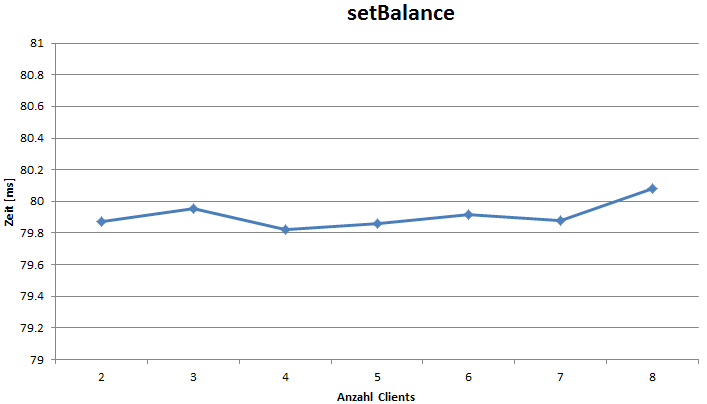
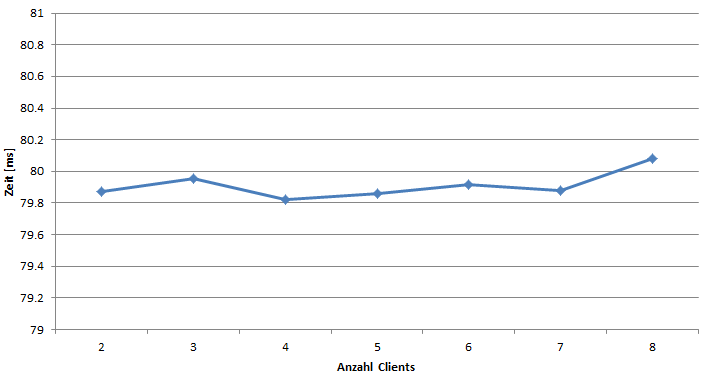
scaling images in the total documentation

diff --git a/doc/project-documentation/MessErgebnisse.tex b/doc/project-documentation/MessErgebnisse.tex
@@ -93,7 +93,7 @@ Pure Operation Time&24595.381&26286.969&30073.691\\
 Diese Zahlen sind Durch\-schnitt\-swer\-te von drei Messungen. Die genauen Mess\-daten können im Anhang gefunden werden. Die folgende Grafik zeigt den Verlauf des Zeit\-auf\-wandes mit einer steigenden Anzahl Clients von zwei bis acht Clients:
 \begin{figure}[H]
 \begin{center}
-\includegraphics[scale=0.6]{images_MessErgebnisse/getBalance_RMI.png}
+\includegraphics[scale=0.55]{images_MessErgebnisse/getBalance_RMI.png}
 \caption{\texttt{getBalance()}-Zeitaufwand, System ohne Cache(nur lesende Zugriffe)}
 \end{center}
 \end{figure}
@@ -132,7 +132,7 @@ Diese Zahlen sind wiederum Durch\-schnitts\-wer\-te.  In der folgenden Grafik we
 
 \begin{figure}[H]
 \begin{center}
-\includegraphics[scale=0.6]{images_MessErgebnisse/getBalance_03ms.png}
+\includegraphics[scale=0.7]{images_MessErgebnisse/getBalance_03ms.png}
 \end{center}
 \caption{\texttt{getBalance()}-Zeitaufwand, System mit Cache(nur lesende Zugriffe)}
 \end{figure}
@@ -222,7 +222,7 @@ Die Ergebnisse der \texttt{setBalance()}-Aurufe werden in dieser Abbildung grafi
 
 \begin{figure}[H]
 \begin{center}
-\includegraphics[scale=0.6]{images_MessErgebnisse/incrementAndReadRMI.png}
+\includegraphics[scale=0.7]{images_MessErgebnisse/incrementAndReadRMI.png}
 \end{center}
 \caption{\texttt{setBalance()}-Zeitaufwand, System ohne Cache(lesende/schreibende Zugriffe)}
 \end{figure}
@@ -262,7 +262,7 @@ Pure Operation Time&79990.542&80081.593&80231.319\\
 In der folgenden Grafik ist der Verlauf der Messwerte der \texttt{setBalance()}-Aufrufe des schreibenden Clients zu sehen:
 \begin{figure}[H]
 \begin{center}
-\includegraphics[scale=0.6]{images_MessErgebnisse/incrementAndReadCache.png}
+\includegraphics[scale=0.55]{images_MessErgebnisse/incrementAndReadCache.png}
 \end{center}
 \caption{\texttt{setBalance()}-Zeitaufwand, System mit Cache(lesende/schreibende Zugriffe)}
 \end{figure}
@@ -336,7 +336,7 @@ Pure Operation Time&79990.542&80081.593&80231.319\\
 Die nächste Grafik zeigt die Messdaten der \texttt{setBalance()}-Methode:
 \begin{figure}[H]
 \begin{center}
-\includegraphics[scale=0.6]{images_MessErgebnisse/incrementRMISetBalance.png}
+\includegraphics[scale=0.7]{images_MessErgebnisse/incrementRMISetBalance.png}
 \end{center}
 \caption{\texttt{setBalance()}-Zeitaufwand, System ohne Cache(nur schreibende Zugriffe)}
 \end{figure}
@@ -349,7 +349,7 @@ Folgende Grafik stellt die durchschnittliche Anzahl Konflikte dar:
 
 \begin{figure}[H]
 \begin{center}
-\includegraphics[scale=0.6]{images_MessErgebnisse/incrementRMIKonfliktzahl.png}
+\includegraphics[scale=0.7]{images_MessErgebnisse/incrementRMIKonfliktzahl.png}
 \end{center}
 \caption{Anzahl Konflikte, System ohne Cache(nur schreibende Zugriffe)}
 \end{figure}
@@ -360,7 +360,7 @@ Schlussendlich die wohl spannendste Grafik. Die "'Pure Operation Time"' ist die 
 
 \begin{figure}[H]
 \begin{center}
-\includegraphics[scale=0.6]{images_MessErgebnisse/incrementRMIPureOperationTime.png}
+\includegraphics[scale=0.7]{images_MessErgebnisse/incrementRMIPureOperationTime.png}
 \end{center}
 \caption{Pure Operation Time System ohne Cache(nur schreibende Zugriffe)}
 \end{figure}
@@ -407,7 +407,7 @@ Pure Operation Time&624422.5&678712.1&859593.5\\
 Die folgende Grafik zeigt die Entwicklung der Messwerte der \texttt{set\-Balance()}-Aufrufe:
 \begin{figure}[H]
 \begin{center}
-\includegraphics[scale=0.6]{images_MessErgebnisse/incrementCacheSetBalance.png}
+\includegraphics[scale=0.7]{images_MessErgebnisse/incrementCacheSetBalance.png}
 \end{center}
 \caption{\texttt{setBalance()}-Zeitaufwand, System mit Cache(nur schreibende Zugriffe)}
 \end{figure}
@@ -417,7 +417,7 @@ Zu erwarten war eine zeitliche Erhöhung bei einer steigenden Anzahl Clients. Da
 In der nächsten Grafik wird die durchschnittliche Anzahl Konflikte pro Client gezeigt:
 \begin{figure}[H]
 \begin{center}
-\includegraphics[scale=0.6]{images_MessErgebnisse/incrementCacheKonfliktzahl.png}
+\includegraphics[scale=0.7]{images_MessErgebnisse/incrementCacheKonfliktzahl.png}
 \end{center}
 \caption{Anzahl Konflikte, System mit Cache(nur schreibende Zugriffe)}
 \end{figure}
@@ -431,7 +431,7 @@ Interessant ist die Tatsache, dass die Zeiten der \texttt{setBalance()}-Aufrufe 
 Die nächste Grafik beschäftigt sich mit der reinen Durchführungszeit:
 \begin{figure}[H]
 \begin{center}
-\includegraphics[scale=0.6]{images_MessErgebnisse/incrementCachePureOperationTime.png}
+\includegraphics[scale=0.8]{images_MessErgebnisse/incrementCachePureOperationTime.png}
 \end{center}
 \caption{Pure Operation Time, System ohne Cache(nur schreibende Zugriffe)}
 \end{figure}

diff --git a/doc/project-documentation/testFramework.tex b/doc/project-documentation/testFramework.tex
@@ -48,7 +48,7 @@ Die Kommunikation des Frameworkservers mit den Frameworkclients ist in folgendem
 
 \begin{figure}[H]
 \begin{center}
-\includegraphics[scale=0.6]{image_testFramework/TestFWInit.png}
+\includegraphics[scale=0.7]{image_testFramework/TestFWInit.png}
 \end{center}
 \caption{Testframework Init}
 \end{figure}
@@ -192,7 +192,7 @@ Nach Beendigung eines Testlaufs, muss der Server mehrere Arbeiten erledigen. Nac
 
 \begin{figure}[H]
 \begin{center}
-\includegraphics[scale=0.6]{image_testFramework/BeendeTestlauf.png}
+\includegraphics[scale=0.7]{image_testFramework/BeendeTestlauf.png}
 \end{center}
 \caption{Testfamework Exit}
 \end{figure}
@@ -348,7 +348,7 @@ Dieses Kapi\-tel beschreibt die Aufgaben des Testframework Client sowie die Umse
 Folgende Abbildung zeigt die wichtigsten Interaktionen zwischen dem Testframework Server und dem Client.
 \begin{figure}[H]
 \begin{center}
-\includegraphics[scale=0.5]{image_testFramework/Server_Client_Communication.png}
+\includegraphics[scale=0.6]{image_testFramework/Server_Client_Communication.png}
 \end{center}
 \caption{Server Client Kommunikation}
 \end{figure}
@@ -395,7 +395,7 @@ In der konkreten Im\-p\-le\-men\-ta\-ti\-on der Me\-tho\-de \texttt{initialize(S
 \subsubsection{Start eines Testlaufs}
 \begin{figure}[H]
 \begin{center}
-\includegraphics[scale=0.4]{image_testFramework/startTest.png}
+\includegraphics[scale=0.55]{image_testFramework/startTest.png}
 \end{center}
 \caption{Start eines Testlauf durch den Testframework Server}
 \end{figure}

diff --git a/doc/project-documentation/object-caching.tex b/doc/project-documentation/object-caching.tex
@@ -133,7 +133,7 @@ Im ersten Szenario treten keine Konsistenzprobleme auf. Nur ein Client ruft nach
 
 \begin{figure}[h]
   \centering
-\includegraphics[scale=0.3]{image_testFramework/conflictscenario_noconflict}  
+\includegraphics[scale=0.5]{image_testFramework/conflictscenario_noconflict}  
   \caption{Szenario mit einem Client}
   \label{fig:oneclient}
 \end{figure}
@@ -153,7 +153,7 @@ In diesem Szenario versucht Client 1 ein \texttt{setBalance()} und das Objekt im
 
 \begin{figure}[h]
   \centering
-\includegraphics[scale=0.3]{images_objectcaching/conflictInCache}  
+\includegraphics[scale=0.6]{images_objectcaching/conflictInCache}  
   \caption{Konflikt wird in lokal behoben}
   \label{fig:localconflict}
 \end{figure}
@@ -176,7 +176,7 @@ In diesem Szenario wird der \texttt{setBalance()}-Aufruf unterbrochen bevor er d
 
 \begin{figure}[h]
   \centering
-\includegraphics[scale=0.3]{images_objectcaching/conflictOnServer}  
+\includegraphics[scale=0.6]{images_objectcaching/conflictOnServer}  
   \caption{Konflikt wird auf Server festgestellt}
   \label{fig:conflictonserver}
 \end{figure}
@@ -193,7 +193,7 @@ Bei allen Fällen kann Inkonsistenz festgestellt werden, indem sich der Server u
 
 \begin{figure}[h]
   \centering
-\includegraphics[scale=0.3]{images_objectcaching/conflictCross}  
+\includegraphics[scale=0.6]{images_objectcaching/conflictCross}  
   \caption{Update und setBalance überkreuzen sich}
   \label{fig:messagecross}
 \end{figure}

diff --git a/doc/project-documentation/rmiWithConcurrencyControl.tex b/doc/project-documentation/rmiWithConcurrencyControl.tex
@@ -173,7 +173,7 @@ Stream und leitet sie an das \texttt{AccountSkeleton}-Objekt weiter. Die
 
 \begin{figure}[ht]
   \centering
-\includegraphics[scale = 0.5]{images_objectcaching/rmiServerImpl}  
+\includegraphics[scale = 0.6]{images_objectcaching/rmiServerImpl}  
   \caption{RMI-Serverimplementation Domain Class Diagramm}
   \label{fig:rmiserverimpl}
 \end{figure}
